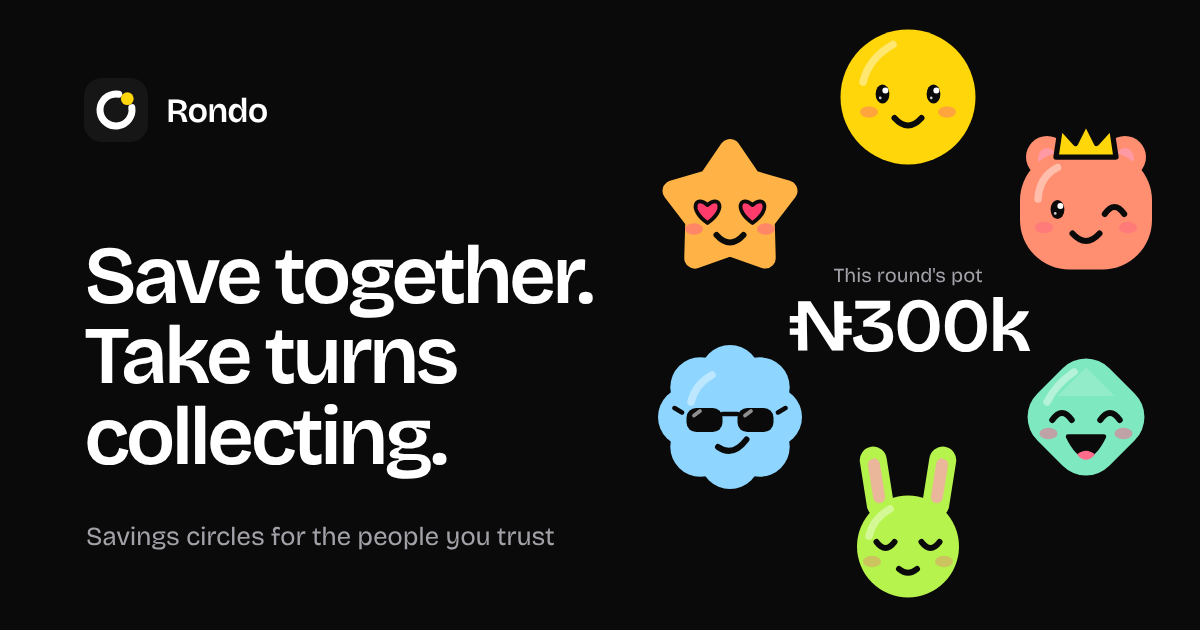
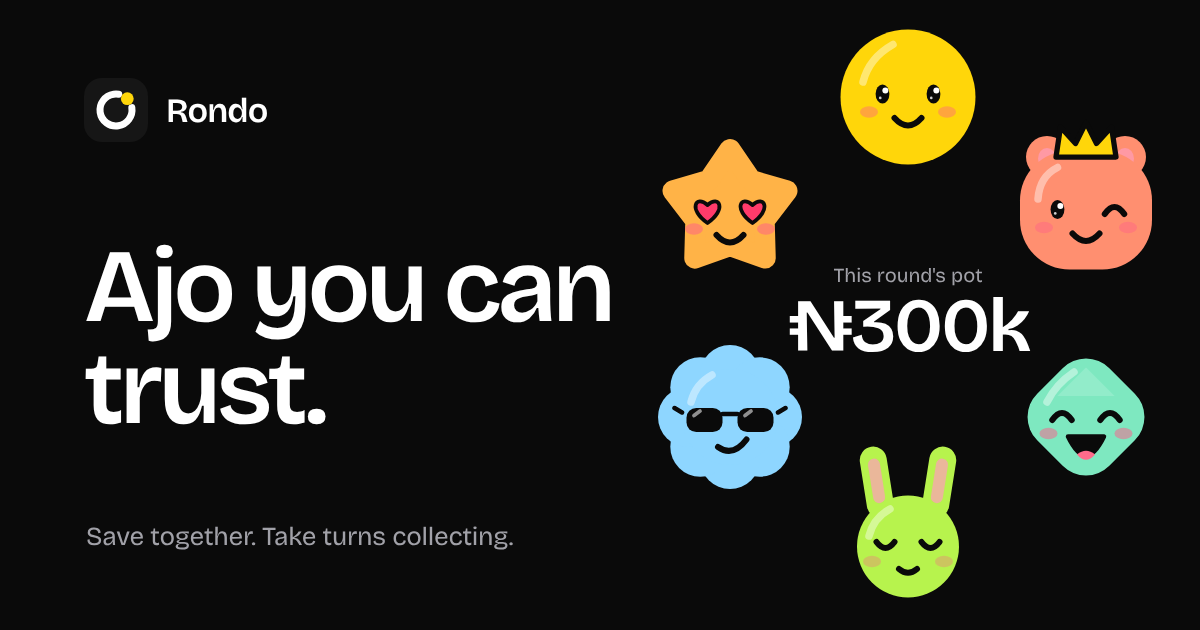
Add files via upload

Changed region(s): [[0.0617, 0.3921, 0.5242, 0.754], [0.0925, 0.8143, 0.4625, 0.8746]]

diff --git a/index.html b/index.html
@@ -7,18 +7,18 @@
 <meta name="description" content="Save together. Take turns collecting.">
 <meta property="og:type" content="website">
 <meta property="og:site_name" content="Rondo">
-<meta property="og:title" content="Rondo: save together, take turns collecting">
-<meta property="og:description" content="Savings circles for the people you trust. Everyone pays in, one person collects the pot each round.">
-<meta property="og:url" content="https://YOUR-DOMAIN/">
-<meta property="og:image" content="https://YOUR-DOMAIN/og.png">
+<meta property="og:title" content="Rondo: ajo you can trust">
+<meta property="og:description" content="Ajo, esusu and chama savings circles with escrow, ID-checked members and a payout order everyone can see.">
+<meta property="og:url" content="https://rondo-d9z.pages.dev/">
+<meta property="og:image" content="https://rondo-d9z.pages.dev/og.png">
 <meta property="og:image:type" content="image/png">
 <meta property="og:image:width" content="1200">
 <meta property="og:image:height" content="630">
 <meta property="og:image:alt" content="Rondo: six friends in a circle around this round's pot of N300k">
 <meta name="twitter:card" content="summary_large_image">
-<meta name="twitter:title" content="Rondo: save together, take turns collecting">
-<meta name="twitter:description" content="Savings circles for the people you trust.">
-<meta name="twitter:image" content="https://YOUR-DOMAIN/og.png">
+<meta name="twitter:title" content="Rondo: ajo you can trust">
+<meta name="twitter:description" content="Ajo, esusu and chama savings circles with escrow, ID-checked members and a payout order everyone can see.">
+<meta name="twitter:image" content="https://rondo-d9z.pages.dev/og.png">
 <meta name="twitter:image:alt" content="Rondo: six friends in a circle around this round's pot of N300k">
 <meta name="theme-color" content="#FFFFFF">
 <meta name="apple-mobile-web-app-capable" content="yes">
